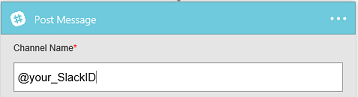
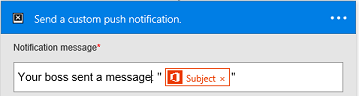
replaced Slack with push notification in monitor-activity

diff --git a/articles/mobile-monitor-activity.md b/articles/mobile-monitor-activity.md
@@ -31,9 +31,9 @@ The flow in this tutorial runs when you receive mail from a specific address:
 
 You could configure such a flow with your personal email address for testing and a different address (for example, your manager's) when the flow is ready for real use.
 
-When the flow runs, it sends a message in Slack:
+When the flow runs, it sends a push notification to your phone:
 
-![Send message to Slack](./media/mobile-monitor-activity/create-event.png)
+![Send push notification](./media/mobile-monitor-activity/create-event.png)
 
 ## Display a summary of activity ##
 1. If your flow hasn't run before, trigger a run to generate data.
